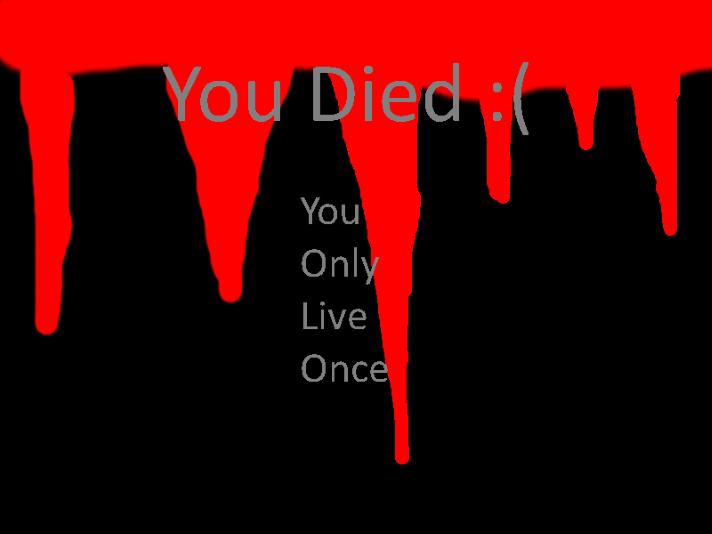
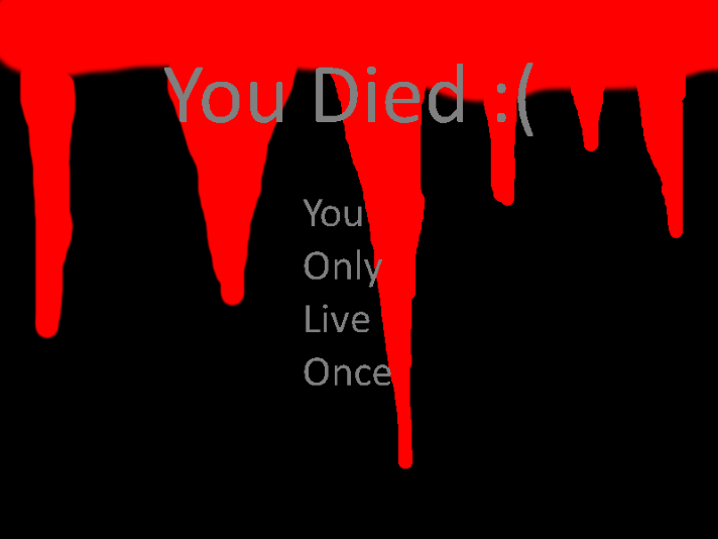
Moved player to center, can kill ball, ball can kill you, resized death screen

diff --git a/framework.py b/framework.py
@@ -6,6 +6,8 @@ import pygame
 from menu import *
 # Global Bullet list
 bullet_list = pygame.sprite.Group()
+# Global enemy list
+enemy_list = pygame.sprite.Group()
 
 
 #For movement between Menu, game, and death screens
@@ -34,6 +36,8 @@ class Player(pygame.sprite.Sprite):
         self.image = pygame.image.load(os.path.join('images', 'player_pistol.png'))
         self.original_image = self.image.copy()
         self.rect = self.image.get_rect()
+        self.rect.x = 718/2
+        self.rect.y = 240
         self.speed = [0, 0]
 
         #starts facing east
@@ -61,16 +65,23 @@ class Player(pygame.sprite.Sprite):
         x, y = mouse_location
         # get the vector difference of the players location and the mouse
         move_vector = [x - self.rect.centerx, y - self.rect.centery]
-        self.angle = math.degrees(math.atan2(*move_vector)) - 90
-        self.image = pygame.transform.rotate(self.original_image, self.angle)
+        self.angle = math.degrees(math.atan2(*move_vector))
+        self.image = pygame.transform.rotate(self.original_image, self.angle-90)
         self.rect = self.image.get_rect(center=self.rect.center)
 
     def fire(self):
         bullet = Bullet()
-        bullet.rect.x = self.rect.x
-        bullet.rect.y = self.rect.y
-        bullet.speed[0] = math.cos(self.angle)*bullet.base_speed
-        bullet.speed[1] = math.sin(self.angle)*bullet.base_speed
+        #if 45 < self.angle < 135:
+        #    bullet.rect.x = self.rect.centerx+60
+        #    bullet.rect.y = self.rect.centery+60*math.sin(self.angle)
+        #elif 225 < self.angle < 315:
+        #    bullet.rect.x = self.rect.centerx-60
+        #    bullet.rect.y = self.rect.centery+60*math.sin(self.angle)
+        #else:
+        bullet.rect.x = self.rect.centerx+15
+        bullet.rect.y = self.rect.centery+15
+        bullet.speed[0] = math.cos(self.angle-90)*bullet.base_speed
+        bullet.speed[1] = math.sin(self.angle-90)*bullet.base_speed
         bullet_list.add(bullet)
 
     def death(self, score):
@@ -83,6 +94,7 @@ class Enemy(pygame.sprite.Sprite):
         self.image = pygame.image.load(os.path.join('images', 'ball.png'))
         self.rect = self.image.get_rect()
         self.rect.topleft = 0, 0
+
 
 
         #Bullet sprite
@@ -160,10 +172,8 @@ def event_loop():
     # so we can draw to the screen
     sprite_list = pygame.sprite.Group()
     sprite_list.add(player)
-    sprite_list.add(enemy)
 
     # create a sprite group for enemies only to detect collisions
-    enemy_list = pygame.sprite.Group()
     enemy_list.add(enemy)
 
     # main game loop
@@ -238,11 +248,18 @@ def event_loop():
         # detect all collisions between the player and enemy
         # but don't remove enemy after collisions
         # increment score if there was a collision
-        if pygame.sprite.spritecollide(player, enemy_list, False):
-            score += 1
+        for e in enemy_list:
+            if pygame.sprite.spritecollide(e, bullet_list, False):
+                score += 1
+                enemy_list.remove(e)
+
 
         if pygame.sprite.spritecollide(player, bullet_list, False):
             player.death(score)
+
+        if pygame.sprite.spritecollide(player, enemy_list, False):
+            player.death(score)
+
         #draw_background define
         def draw_background(background, x, y):
             screen.blit(background, [x, y])
@@ -264,6 +281,7 @@ def event_loop():
         # draw the player and enemy sprites to the screen
         sprite_list.draw(screen)
         bullet_list.draw(screen)
+        enemy_list.draw(screen)
 
         # update the screen
         pygame.display.flip()
